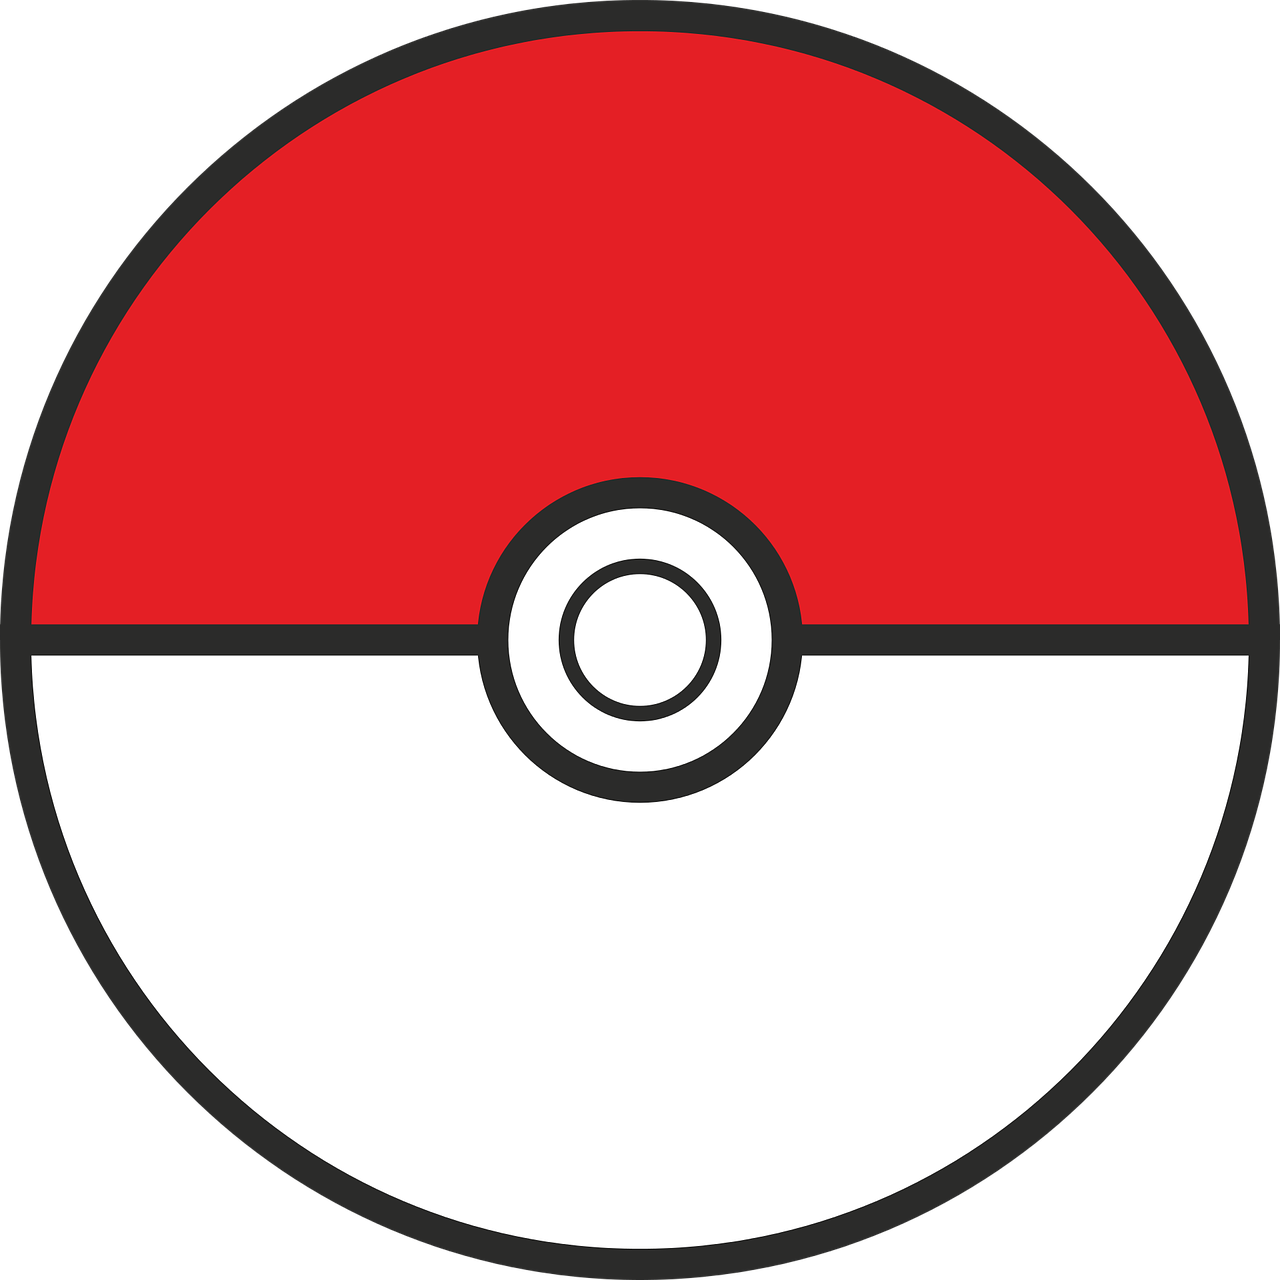
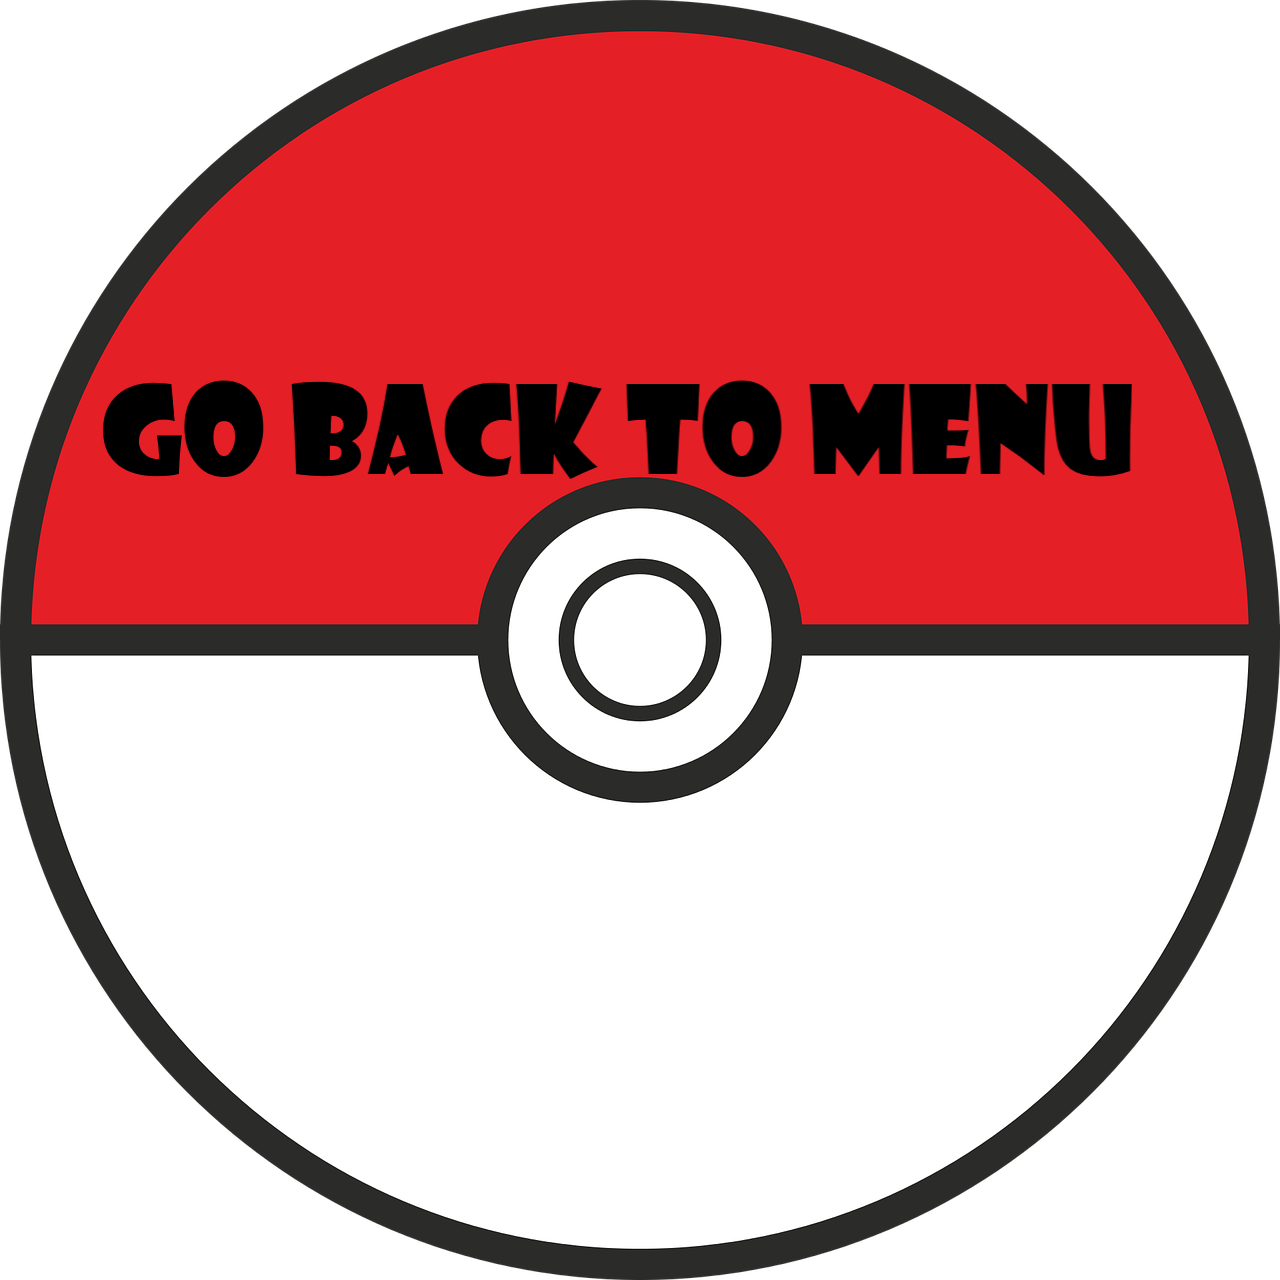
tillagda rader

Changed region(s): [[0.0625, 0.2812, 0.9062, 0.375]]

diff --git a/Pokemon/variabler.js b/Pokemon/variabler.js
@@ -1,23 +1,48 @@
 // import {  } from './functionButtons.js'
-const SerchMeny = document.querySelector('.sök-container');
-const FindChampionButton = document.querySelector('#Find-button'); //knappen för find champion
-const DivFindChampionButton= document.querySelector('.findChampion');
-const MyTeamButton = document.querySelector('#team-button')
-const DivMyTeamButton = document.querySelector('.MyTeam');
+//import { getAdvice } from './ajax.js'
 
-SerchMeny.classList.add('hidden'); // gömmer sökknappen
+const serchMeny = document.querySelector('.sök-container');
+const findChampionButton = document.getElementById('championbutton'); //knappen för find champion
+const divFindChampionButton= document.querySelector('.findChampionstart');
+const myTeamButton = document.getElementById('team-button')
+const divMyTeamButton = document.querySelector('.MyTeamstart');
+const menyChampion =document.getElementById('championMenyn')// menyn för champions
+const images = document.querySelector('.image') //bilder på pokemon
+const addPokemonsButton = document.getElementById('addPokemonsbutton') //lägg till pokemon med knapp
+const myTeam = document.getElementById('my-team');// meny för ens team 
+const backmeny = document.querySelector('.backMenyn');
+const backButton = document.getElementById('back-button');
 
-FindChampionButton.addEventListener('click', async () => {
-	SerchMeny.classList.remove('hidden');
-	DivFindChampionButton.classList.add('hidden');
-	DivMyTeamButton.classList.add('hidden');
-	FindChampionButton.classList.add('hidden');
+menyChampion.classList.add('hidden') //menyn champion hidden
+myTeam.classList.add('hidden'); //menyn my team hidden
+backmeny.classList.add('hidden');
 
+
+findChampionButton.addEventListener('click', async () => {
+	serchMeny.classList.remove('hidden');
+	divFindChampionButton.classList.add('hidden');
+	divMyTeamButton.classList.add('hidden');
+	findChampionButton.classList.add('hidden');
+	menyChampion.classList.remove('hidden');
+	myTeam.classList.add('hidden')
+	backmeny.classList.remove('hidden');
 });
 
-MyTeamButton.addEventListener('click', async (event) => {
-	event.stopPropagation
+myTeamButton.addEventListener('click', async () => {
+	menyChampion.classList.add('hidden');
+	divMyTeamButton.classList.add('hidden')
+	myTeam.classList.remove('hidden');
+	backButton.classList.remove('hidden');
+	divFindChampionButton.classList.add('hidden');
+	backmeny.classList.remove('hidden');
 });
+backButton.addEventListener('click', async () => { 
+	divFindChampionButton.classList.remove('hidden');
+	divMyTeamButton.classList.remove('hidden');
+	backmeny.classList.add('hidden');
+	menyChampion.classList.add('hidden');
+	myTeam.classList.add('hidden');
+ });
 
 
 

diff --git a/Pokemon/base.css b/Pokemon/base.css
@@ -6,7 +6,7 @@
 }
 
 header {
-background-color: red;
+	background-color: red;
 	display:flex;
 	padding: 0em;
 	flex-wrap: wrap;
@@ -24,8 +24,8 @@ header > p {
 	text-align: center;
 }
 .pokemonbild,
-.findChampion, 
-.MyTeam {
+.findChampionstart, 
+.MyTeamstart {
 	display:flex;
 	justify-content: center;
 	align-items: center;
@@ -33,7 +33,7 @@ header > p {
 	padding: 0;
 	margin: 0;
 }
-#Find-button,
+#championbutton,
  #team-button {
 	display:flex;
 	border:none;
@@ -46,19 +46,43 @@ header > p {
 .button-text {
 	margin-top: 10px;
 }
-#Find-button .button1-div{
+#championbutton , 
+.button1-div{
 	display:flex;
 	flex-direction: column;
 	align-items: center;
 }
-#Find-button img,
+#championbutton img,
  #team-button img {
 margin: 0;
 padding:0;
 width:100%;
 max-width:600px;
 }
-#Find-button:hover img,
+
+.backMenyn {
+	display: flex;
+	flex-direction: column;
+	align-items: left;
+}
+.backMenyn img {
+	margin:0;
+	padding: 0.3em;
+	width:20%;
+	max-width:50em;
+}
+ #back-button {
+ 	display: flex;
+ 	border: none;
+ 	background: none;
+ 	cursor: pointer;
+ 	padding: 0;
+ 	margin: 0;
+ }
+ #back-button:hover img{
+	background-color: yellow;
+ }
+#championbutton:hover img,
 #team-button:hover img {
 background-color: yellow;
 }
@@ -67,34 +91,74 @@ background-color: yellow;
 body {
 	background-color: whitesmoke;
 }
-
+.searchForPokemonDiv{
+	display: flex;
+		padding: 0;
+		flex-direction: column;
+		align-items: center;
+}
 .sök-container{
 	display:flex;
-	padding: 1em;
 	flex-direction: column;
 	align-items: center;
+	flex-wrap: wrap;
 }
 .sök-container > p {
 	font-size: 1.2em;
 	font-family: 'Franklin Gothic Medium', 'Arial Narrow', Arial, sans-serif;
-	margin-bottom: 0.5em;
+	margin-bottom: 0;
+	padding:1em;
 }
 
 .sök-container > label {
-	padding: 1.5em;
-	width: 0.5em;
+	padding:0.1em;
+	width:0.5em;
+	margin-right: 0.5em;
 }
+.sök-container > #searchbutton {
+
+}
+
 
 footer {
 	background-color: red;
-		display: flex;
-		padding: 1em;
-		flex-wrap: wrap;
-		margin-top: 0.4em;
+	display: flex;
+	padding: 1.5em;
+	flex-wrap: wrap;
+	margin-top: 0.4em;
 }
 .hidden{
-	display:none;
+	display:none;  
 }
 .visible{
 	display:block;
 }
+
+.championMenyn, /* Trotts att det är ett id så behövdes ett . ist för # */ 
+ .my-team {
+	display: block;
+	justify-content: center;
+	align-items: center;
+	color: black;
+	padding: 0em;
+}
+h2{
+	display:flex;
+	background-color: whitesmoke;
+}
+
+#my-team, .image {
+	width: 4.5em;
+	height: 4.5em;
+	border: 1px solid #444;
+	background: #ff0303;
+	margin-right: 1.5em;
+}
+/*
+.rubrikPokemon{
+
+}
+#kickHere {
+
+} */ 
+

diff --git a/Pokemon/index.html b/Pokemon/index.html
@@ -7,35 +7,62 @@
 	<script type="module" src="ajax.js"></script>
 	<script type="module" src="storage.js"></script>
 	<script type="module" src="variabler.js"></script>
-	<script type="module" src ="functionButtons.js"></script>
+	<script type="module" src="functionButtons.js"></script>
 	<title>Pokemon manager</title>
 </head>
 <header> 
 <img src="picka.png" alt="pickachu"> 
 <p> Poke manager </p>
-
 </header>
-
 <body>
-
-	<div class="sök-container">
-<p>Find pokemon<p>
-<input type="text" value="" placeholder="pokemon name here" />
-		<label for="sökning"> </label>
-		<button> search </button>
-	</div>
-
-	
-	<div class="findChampion">
-		<button id="Find-button"> 		
+<div class="backMenyn">
+	<button id="back-button">
+		<img src="pokemonboll.png" alt="pokemonboll">
+	</button>
+</div>
+	<!-- Till find champion menyn! --->
+	<div class="findChampionstart">
+		<button id="championbutton"> 		
 		<img src="pokemonboll3.png" alt="pokemonboll" 
 		</button>
 </div>
-	<div class="MyTeam">
+	<!-- Till mitt lag menyn i startmenyn! --->
+	<div class="MyTeamstart">
 		<button id="team-button">
 			<img src="pokemonboll2.png" alt="pokemonboll">
 		</button>
 	</div>
+
+	
+
+	<!-- find champion menyn! --->
+
+<div id="championMenyn">
+		<div class="sök-container">
+			<p>Find pokemon </p>
+				<input type="text" value="" placeholder="pokemon name here" />
+				<label for="sökning"> </label>
+				<button id ="searchbutton"> search </button>
+		</div>
+
+
+		
+		<div class ="searchForPokemonDiv">
+			<h2> Pokemon for champion</h2>
+		<div class="image"> images here </div>
+		<button id="addPokemonsbutton"> Add champions to team</button>
+		</div>
+</div>
+
+
+	<!-- My team menyn! --->
+<div id="my-team">
+			<div class="image"> images here</div>
+			<h2 class="rubrikPokemon"> Namn på pokemon här</h2>
+			<button id="kickHere"> Kick from team</button>
+</div>
+
+
 
 </body>
 <footer>  

diff --git a/Pokemon/functionButtons.js b/Pokemon/functionButtons.js
@@ -1,13 +1,3 @@
-export { FindChampionButton, MyTeamButton, SerchMeny}
-SerchMeny.classList.add('hidden'); // gömmer sökknappen
-
-FindChampionButton.addEventListener('click', async () => {
-	SerchMeny.classList.remove('hidden');
-});
-
-MyTeamButton.addEventListener('click', async (event) => {
-	event.stopPropagation
-});
 
 
 

diff --git a/Pokemon/ajax.js b/Pokemon/ajax.js
@@ -1,0 +1,13 @@
+async function getAdvice() {
+	const url = 'https://api.adviceslip.com/advice'
+
+	const response = await fetch(url)
+	const data = await response.json()
+
+	console.log('Data from API:', data);
+	// Datans format: " { slip: { advice, id } } "
+
+	return data.slip
+}
+
+export { getAdvice }
